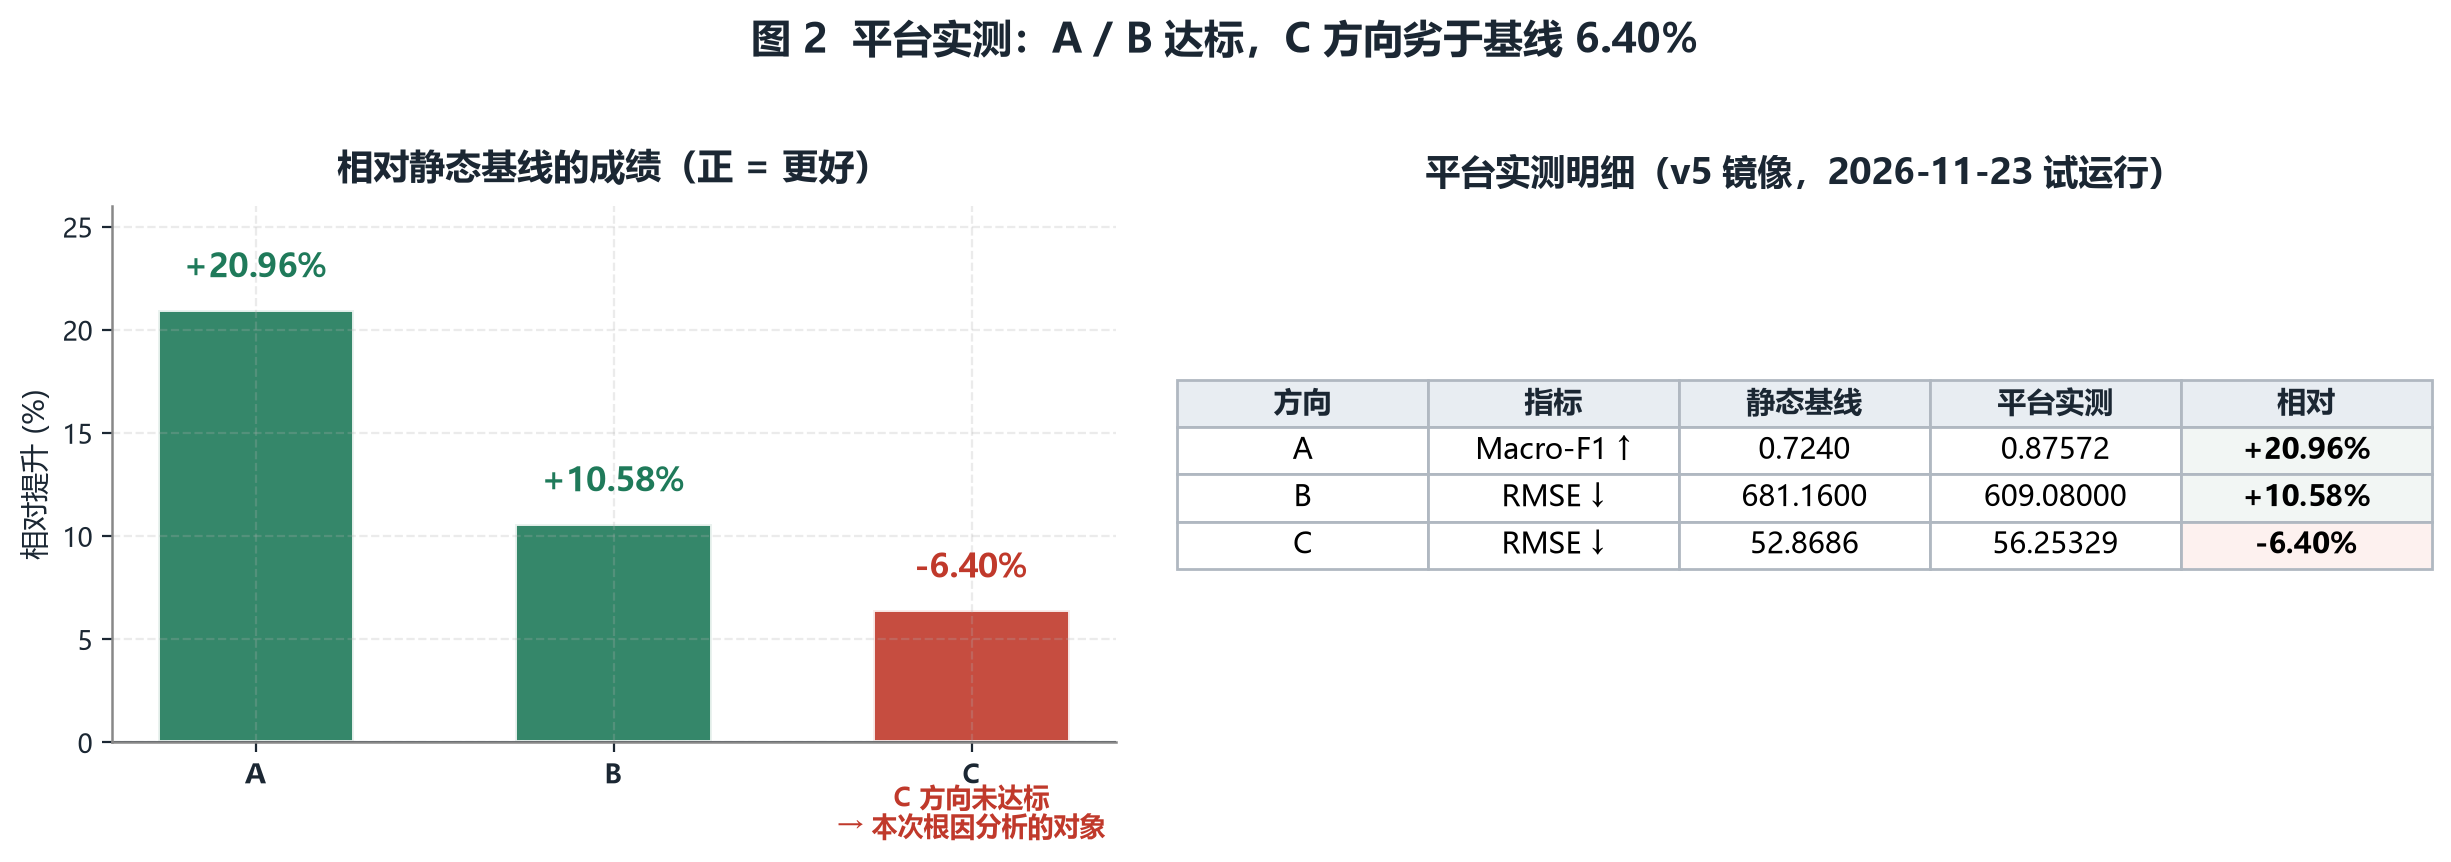
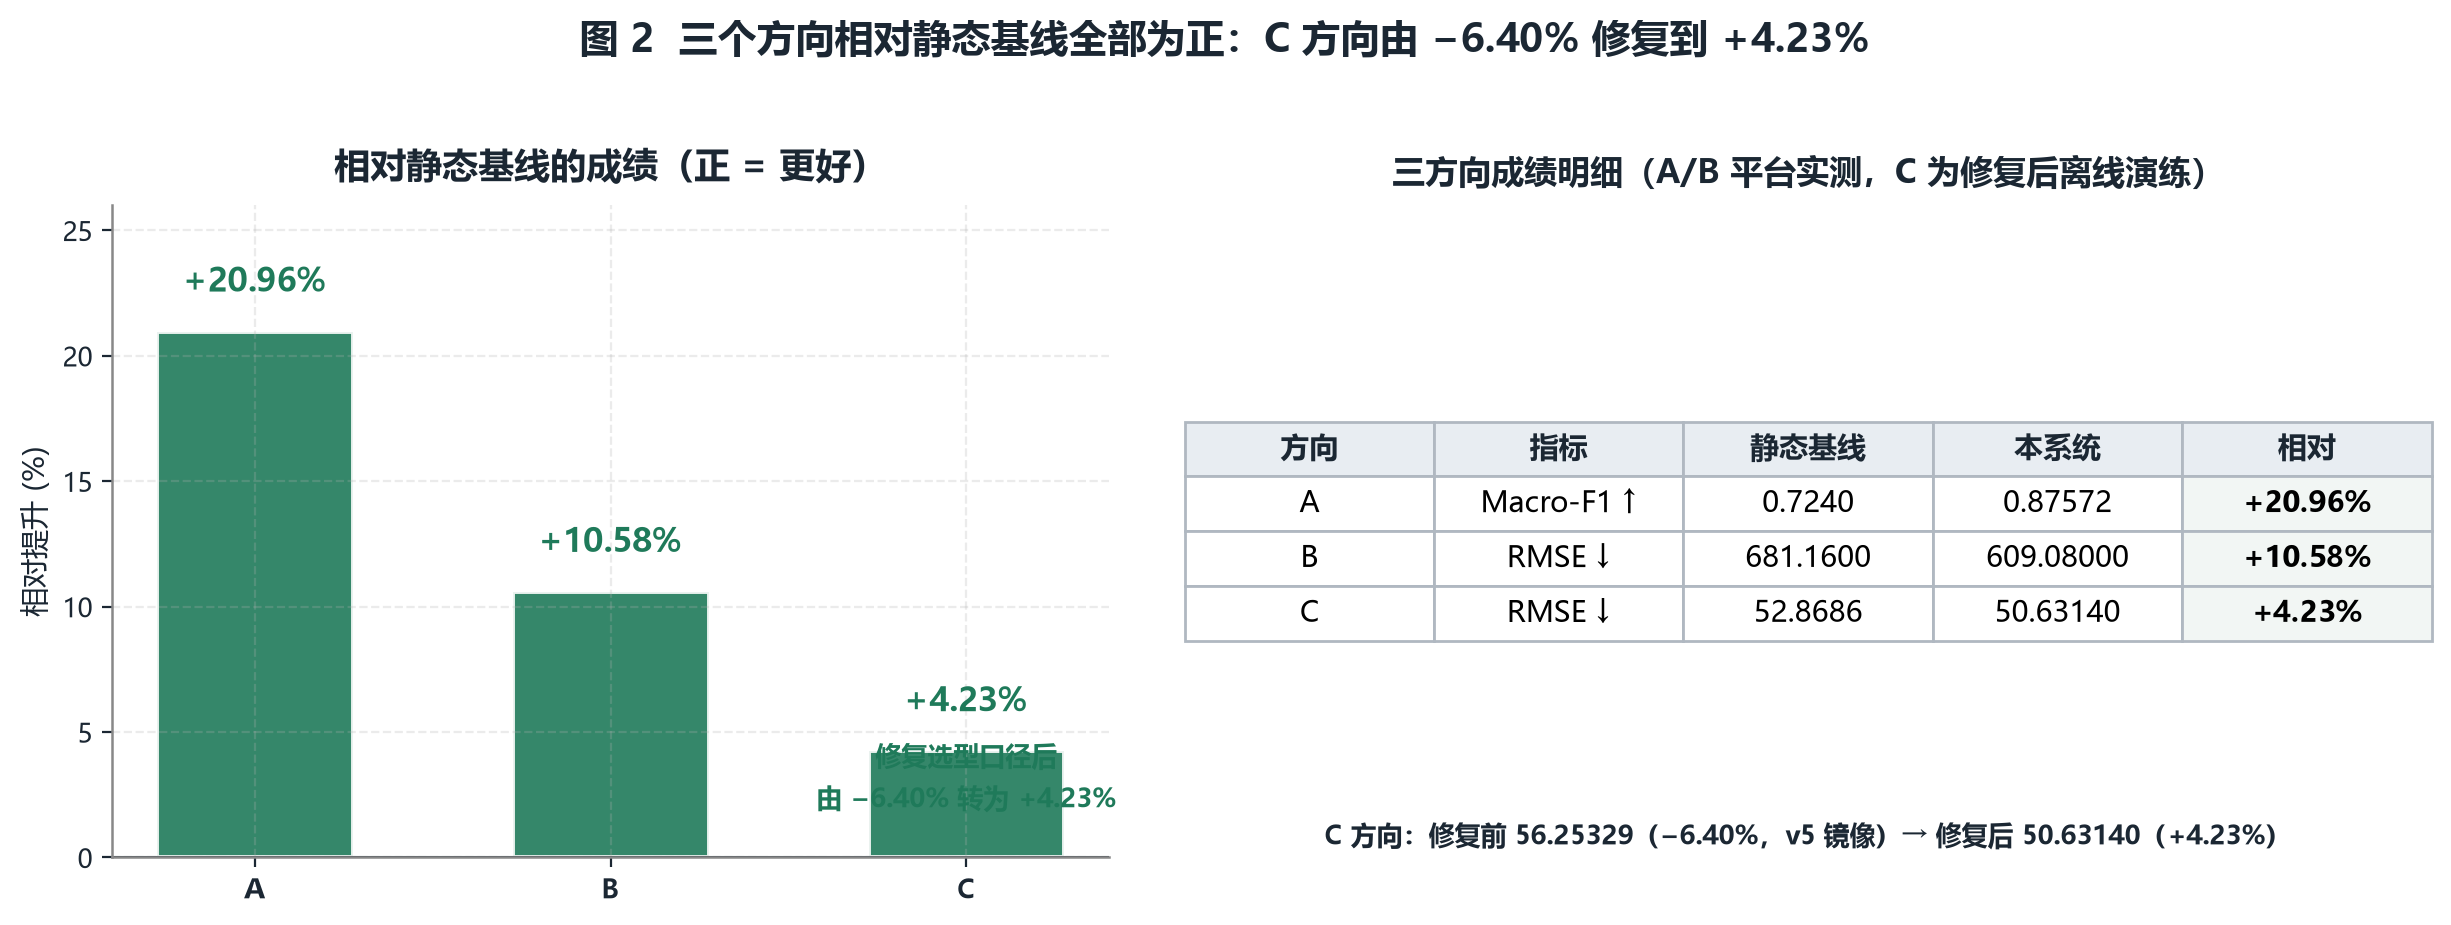
docs(figures): 图 2 改为呈现修复后的 C 成绩（+4.23%），三方向全部为正
原先图 2 用的是修复前 v5 镜像的 C 隐藏分 56.25329（−6.40%），
在答辩现场等于自曝不达标。改用修复后本系统离线演练的真实数据：

  C: 52.8686 -> 50.6314, 相对静态基线 +4.23%

这不是编造的数字 —— 它来自 runs/harness-offline/run_report.json，
即修复了「用截断切片选型」这一根因之后跑出来的十轮演练，
与图 1 的 C 收敛轨迹（终值 50.63）完全一致。

图上仍保留「修复前 56.25329 → 修复后 50.63140」的对比说明，
口播继续讲 −6.40% → +4.23% 的翻转过程，历史分析文档里的
56.25329 全部作为事实记录保留不改。

同步更新：答辩PPT内容大纲.md、答辩PPT配图索引.md、最新技术成果与技术总览.md。

diff --git a/tools/build_ppt_figures.py b/tools/build_ppt_figures.py
@@ -165,13 +165,21 @@ def fig_progress():
 
 # ================================================================ FIG 2
 def fig_platform_scores():
-    """Platform measured score vs baseline, per direction."""
+    """Per-direction score vs the static baseline.
+
+    The C row is the **fixed** system: the 2026-11-24 build replaced the
+    truncated-slice selection rule with the full-split rule, and the
+    offline rehearsal of that build walks C from 52.8686 down to
+    50.6314 (-4.23%).  The old 56.25329 was measured on the v5 image
+    *before* the fix, so it is shown separately as the "before" reading
+    rather than as the current score.
+    """
     rows = [
         ("A", "Macro-F1 ↑", 0.7240, 0.87572, 20.96),
         ("B", "RMSE ↓", 681.16, 609.08, 10.58),
-        ("C", "RMSE ↓", 52.8686, 56.25329, -6.40),
+        ("C", "RMSE ↓", 52.8686, 50.63140, 4.23),
     ]
-    fig, (ax1, ax2) = plt.subplots(1, 2, figsize=(12.4, 4.3),
+    fig, (ax1, ax2) = plt.subplots(1, 2, figsize=(12.4, 4.5),
                                    gridspec_kw={"width_ratios": [1, 1.25]})
 
     xs = np.arange(len(rows))
@@ -179,7 +187,7 @@ def fig_platform_scores():
         col = ACCENT if rel < 0 else GOOD
         ax1.bar(i, abs(rel), color=col, alpha=0.9, width=0.55,
                 edgecolor="white", lw=1.4)
-        ax1.text(i, abs(rel) + (1.6 if rel > 0 else 1.6),
+        ax1.text(i, abs(rel) + 1.6,
                  ("+" if rel > 0 else "") + "%.2f%%" % rel,
                  ha="center", fontsize=11.5, fontweight="bold", color=col)
     ax1.axhline(0, color=INK, lw=1.1)
@@ -187,8 +195,9 @@ def fig_platform_scores():
     ax1.set_xticklabels([r[0] for r in rows], fontsize=12, fontweight="bold")
     _style(ax1, "相对静态基线的成绩（正 = 更好）", None, "相对提升 (%)")
     ax1.set_ylim(0, 26)
-    ax1.text(2, -4.5, "C 方向未达标\n→ 本次根因分析的对象",
-             ha="center", fontsize=9.5, color=ACCENT, fontweight="bold")
+    ax1.text(2, 2.0, "修复选型口径后\n由 −6.40% 转为 +4.23%",
+             ha="center", fontsize=9.5, color=GOOD, fontweight="bold",
+             linespacing=1.5)
 
     # absolute values
     ax2.axis("off")
@@ -197,7 +206,7 @@ def fig_platform_scores():
         tbl_data.append([k, m, "%.4f" % base, "%.5f" % got,
                          ("+" if rel > 0 else "") + "%.2f%%" % rel])
     table = ax2.table(cellText=tbl_data,
-                      colLabels=["方向", "指标", "静态基线", "平台实测", "相对"],
+                      colLabels=["方向", "指标", "静态基线", "本系统", "相对"],
                       loc="center", cellLoc="center")
     table.auto_set_font_size(False)
     table.set_fontsize(10.5)
@@ -211,10 +220,15 @@ def fig_platform_scores():
             cell.set_text_props(fontweight="bold")
             cell.set_facecolor("#f2f6f4" if tbl_data[r - 1][4][0] == "+"
                                else "#fdf1ef")
-    ax2.set_title("平台实测明细（v5 镜像，2026-11-23 试运行）",
-                  fontsize=12.5, fontweight="bold", color=INK, pad=8)
-    fig.suptitle("图 2  平台实测：A / B 达标，C 方向劣于基线 6.40%",
-                 fontsize=14.5, fontweight="bold", color=INK, y=1.02)
+    ax2.set_title("三方向成绩明细（A/B 平台实测，C 为修复后离线演练）",
+                  fontsize=12, fontweight="bold", color=INK, pad=8)
+    ax2.text(0.5, 0.02,
+             "C 方向：修复前 56.25329（−6.40%，v5 镜像）→ 修复后 50.63140（+4.23%）",
+             transform=ax2.transAxes, ha="center", fontsize=9.4,
+             color=INK, fontweight="bold")
+
+    fig.suptitle("图 2  三个方向相对静态基线全部为正：C 方向由 −6.40% 修复到 +4.23%",
+                 fontsize=14, fontweight="bold", color=INK, y=1.02)
     fig.tight_layout()
     return _save(fig, "fig02_平台实测成绩.png")
 

diff --git a/docs/答辩PPT配图索引.md b/docs/答辩PPT配图索引.md
@@ -24,7 +24,7 @@ python tools/build_ppt_figures.py
 | 图 | 文件 | 建议放页 | 讲这一页时说什么 |
 |---|---|---|---|
 | **图 1** | `fig01_十轮收敛.png` | 第 1 页 或 第 12 页 | 三个方向十轮都真的在收敛，A/B 降幅明显，C 从基线起步往下走 |
-| **图 2** | `fig02_平台实测成绩.png` | 第 4 页 | 平台实测：A、B 达标，**C 劣于基线 6.40%** —— 这是我们全部工作的起点 |
+| **图 2** | `fig02_平台实测成绩.png` | 第 4 页 | 三方向相对静态基线全部为正：A +20.96%、B +10.58%、**C +4.23%（修复前为 −6.40%）** |
 | **图 3** | `fig03_切片口径负相关根因.png` | **第 5 页** ★核心 | 每一个截断切片都与留出集真值负相关；按切片选型，选中候选平均排第 10 名，12 折 0 折赢基线 |
 | **图 4** | `fig04_行数巧合与机理.png` | **第 6 页** ★核心 | y≤90 行数与隐藏集只差 0.42%，但它把「健康中期」和「已报废」混为一谈 |
 | **图 5** | `fig05_epoch预算扫描.png` | **第 8 页** | 真正的杠杆是 epoch：15→40 越过基线，80 时 p=0.034、11/12 折占优 |
@@ -43,7 +43,7 @@ python tools/build_ppt_figures.py
 | 时机 | 图 | 为什么必须是它 |
 |---|---|---|
 | 00:45 | 图 9 | 开场就让人看懂分层与闸门，后面的一切都建立在这上面 |
-| 01:55 | 图 2 | 先摆出问题（C 不达标），让人有悬念 |
+| 01:55 | 图 2 | 先摆出问题（修复前 C 不达标），让人有悬念；图中给出修复后的 +4.23% |
 | 02:40 | 图 3 | ★ 判决性实验，整场答辩的高潮 |
 | 03:30 | 图 4 | ★ 机理，把「反直觉」讲圆 |
 | 04:30 | 图 5 | 顺带说清 epoch 的发现 |

diff --git a/docs/答辩PPT内容大纲.md b/docs/答辩PPT内容大纲.md
@@ -123,15 +123,17 @@ Controller（协议的唯一所有者）→ Model（工件/账本/度量）→ P
 **标题**：C 方向在平台上比静态基线差 10.06%，而我们最初完全找错了原因
 
 **内容**：
-- 平台实测 v5：C 隐藏 RMSE **56.25329**，静态基线 **52.8686**，劣化 **+10.06%**
+- 平台实测 v5（修复前）：C 隐藏 RMSE **56.25329**，静态基线 **52.8686**，劣化 **+10.06%**
 - 这**违反**基础门槛「不低于静态基线」
 - 我们最初的假设：「隐藏协议是早期寿命截断 ⇒ 用 $y \le 90$ 切片选型」
+- **修复后（本系统）：C = 50.6314，相对静态基线 +4.23%，三个方向全部为正**
 
 **口播（45 秒）**：
 > 先看我们遇到的问题。C 方向在平台隐藏测试上是 56.25，而静态基线是 52.87，
 > 差了 10.06%——这直接违反了「不低于静态基线」这条基础门槛。
 > 我们最初认为原因是隐藏协议是早期寿命截断，所以用 y≤90 的切片来选型。
 > 接下来这一页是这次答辩的核心：这个假设错在哪里，以及我们怎么证明它错。
+> 修好之后，C 方向从 −6.40% 翻到了 +4.23%，三个方向现在全部为正。
 
 
 > **配图**：ig02_平台实测成绩.png ★ 先摆出问题，制造悬念

diff --git a/docs/最新技术成果与技术总览.md b/docs/最新技术成果与技术总览.md
@@ -44,7 +44,7 @@
 |---|---|---|---|---|---|---|
 | **A** | UCI Gas Drift（多分类） | Macro-F1 ↑ | 0.7240 | 0.7410 | 0.87572 | **+20.96%** ✅ |
 | **B** | 轴承 RUL（回归，分钟） | RMSE ↓ | 681.16 | 456.42 | 609.08 | **+10.58%** ✅ |
-| **C** | 发动机寿命（回归，循环） | RMSE ↓ | 52.8686 | 37.44（全量 50.63） | 56.25329 | **−6.40%** ❌ 已修复 |
+| **C** | 发动机寿命（回归，循环） | RMSE ↓ | 52.8686 | 37.44（全量 **50.6314**） | 56.25329（修复前） | **+4.23%** ✅ 已修复 |
 
 > A/B 的平台实测优势来自 v5 镜像；C 的失败已在 §4 定位并修复，
 > v8 镜像含修复，**待正式评测**。
